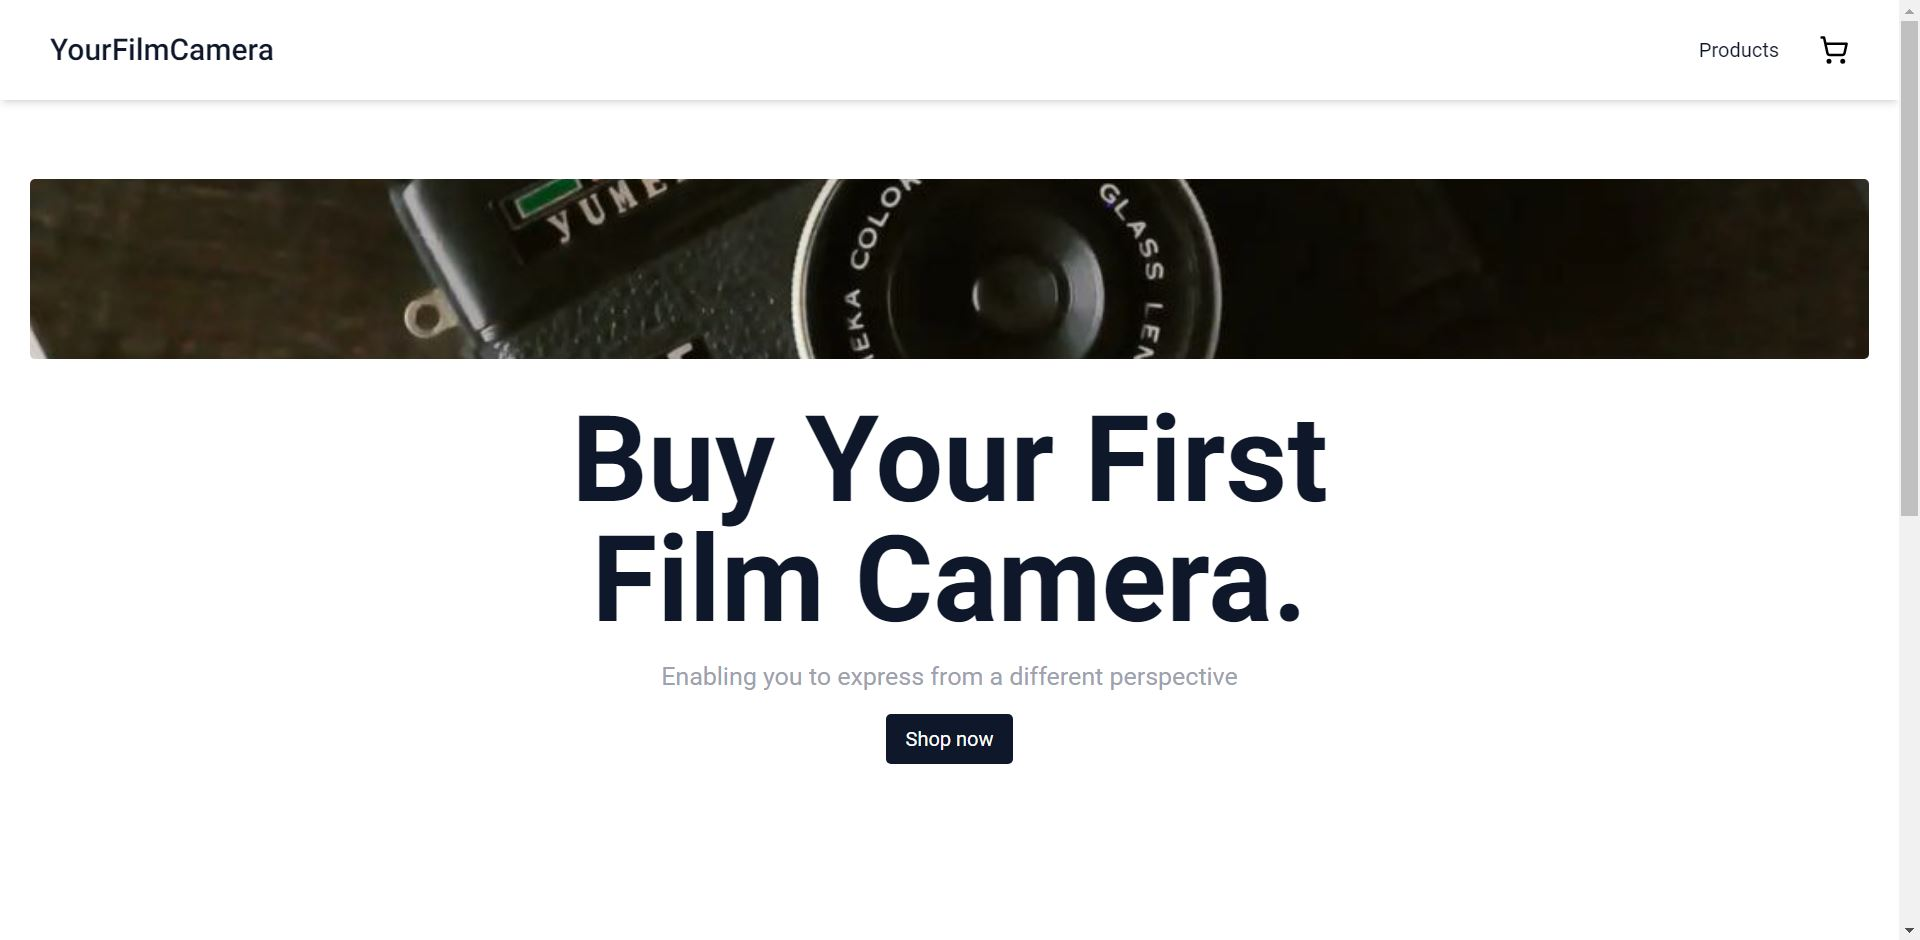
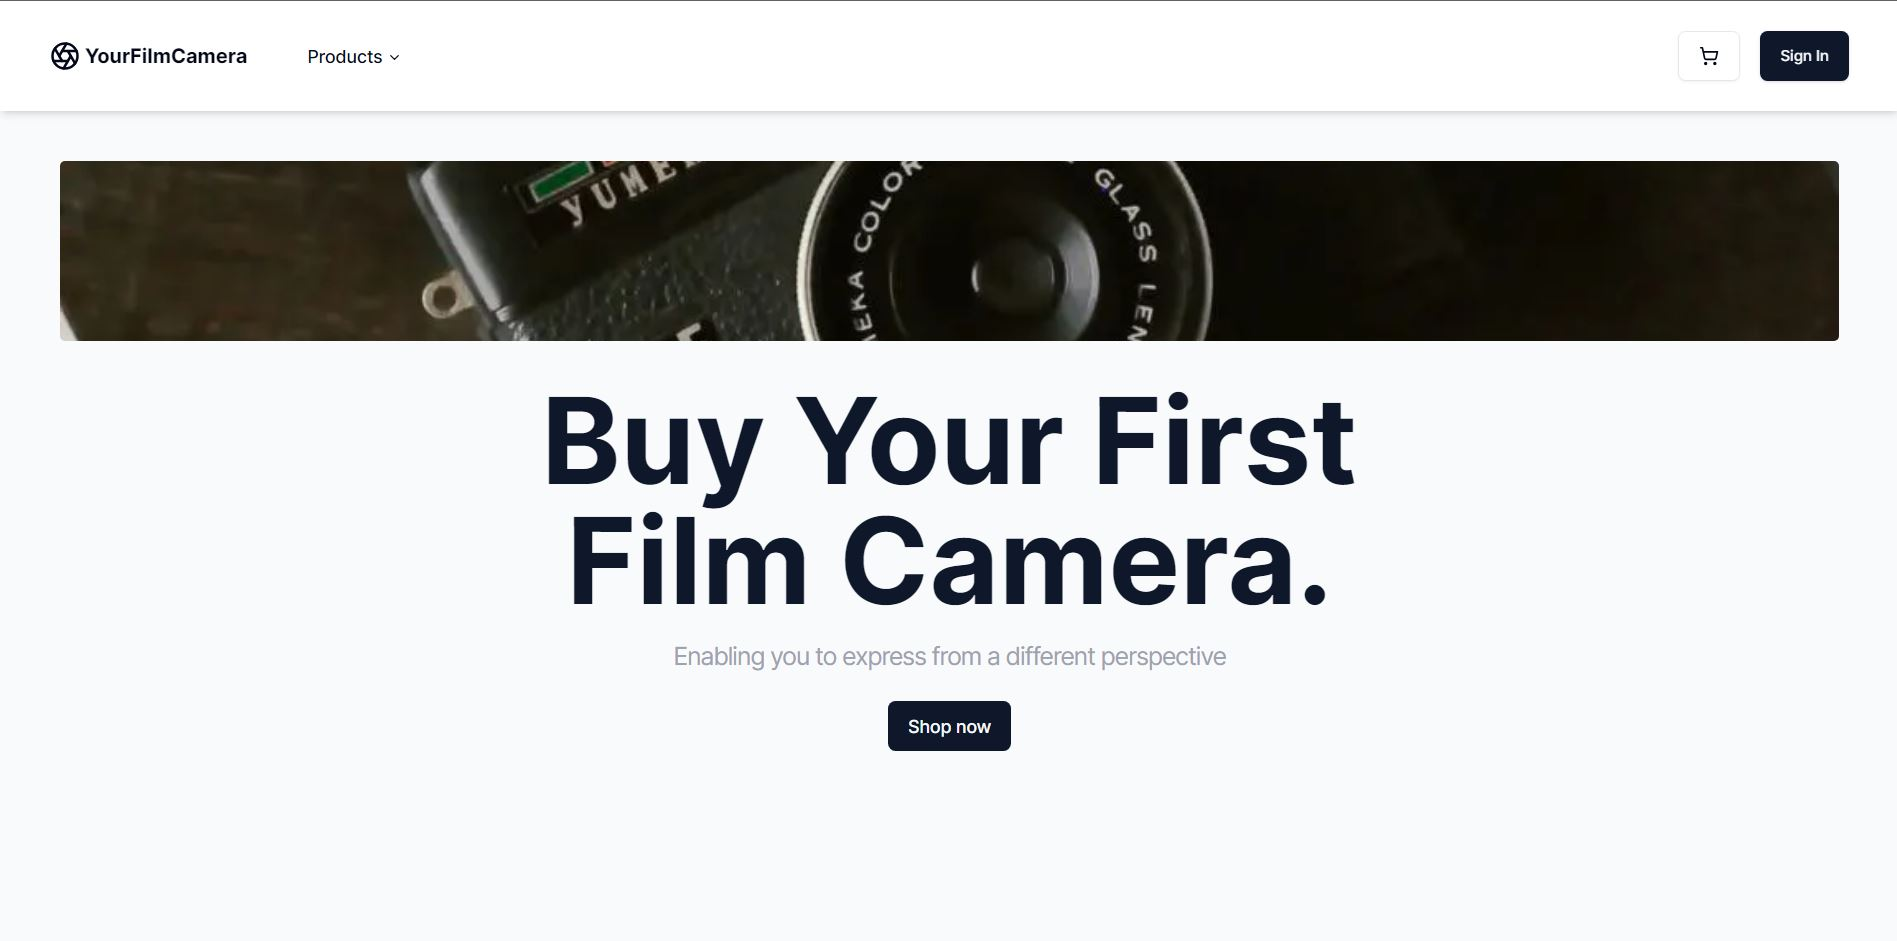
updating readme

Changed region(s): [[0.0, 0.0, 1.0, 0.833], [0.9953, 0.9872, 1.0, 1.0]]

diff --git a/README.md b/README.md
@@ -5,48 +5,41 @@
 
 ## About
 
-E-commerce Store built using React(Vite) and TypeScript which allows users to purchase film products.
+Ecommerce Store built using Next.js App Router which allows users to purchase film products.
 
 Key features:
 
-- React(Vite) & TypeScript
-- Managing state through **React Context API** to manage the shopping cart's state throughout the app.
+- Next.js App Router with React Server Components
+- Managing state through **Zustand** to manage the shopping cart's state throughout the app.
+- User authentication with **Clerk**
 - _Styling_ done using **TailwindCSS**
 - Hosted using **Vercel**
 
 Home page
-![Home page](/client/.github/images/home-page.jpg?raw=0)
+![Home page](.github/images/home-page.jpg?raw=0)
+
+Cart popup
+![Cart page](.github/images/product-admin.jpeg?raw=0)
+
+Camera page
+![Cart page](.github/images/camera-page.JPG?raw=0)
+
 This is a [Next.js](https://nextjs.org/) project bootstrapped with [`create-next-app`](https://github.com/vercel/next.js/tree/canary/packages/create-next-app).
 
-## Getting Started
+## Running the app
 
-First, run the development server:
+1. Create a local `.env` file with the variables as per the `.env.example` file.
+2. Run `npm install`.
+3. Run `npm run dev` to open the app in development mode.
 
-```bash
-npm run dev
-# or
-yarn dev
-# or
-pnpm dev
-```
+That's it. You should now be able to access the app at `http://localhost:3000`.
 
-Open [http://localhost:3000](http://localhost:3000) with your browser to see the result.
+## Contributing
 
-You can start editing the page by modifying `app/page.tsx`. The page auto-updates as you edit the file.
+Feel free to make issues and PR's for new features/fixes
 
-This project uses [`next/font`](https://nextjs.org/docs/basic-features/font-optimization) to automatically optimize and load Inter, a custom Google Font.
+## Inspiration
 
-## Learn More
-
-To learn more about Next.js, take a look at the following resources:
-
-- [Next.js Documentation](https://nextjs.org/docs) - learn about Next.js features and API.
-- [Learn Next.js](https://nextjs.org/learn) - an interactive Next.js tutorial.
-
-You can check out [the Next.js GitHub repository](https://github.com/vercel/next.js/) - your feedback and contributions are welcome!
-
-## Deploy on Vercel
-
-The easiest way to deploy your Next.js app is to use the [Vercel Platform](https://vercel.com/new?utm_medium=default-template&filter=next.js&utm_source=create-next-app&utm_campaign=create-next-app-readme) from the creators of Next.js.
-
-Check out our [Next.js deployment documentation](https://nextjs.org/docs/deployment) for more details.
+- OneStopShop by jackblatch (https://onestopshop.jackblatch.com/)
+- Skateshop by sadmann7 (https://skateshop.sadmn.com/)
+- Josh tried coding
